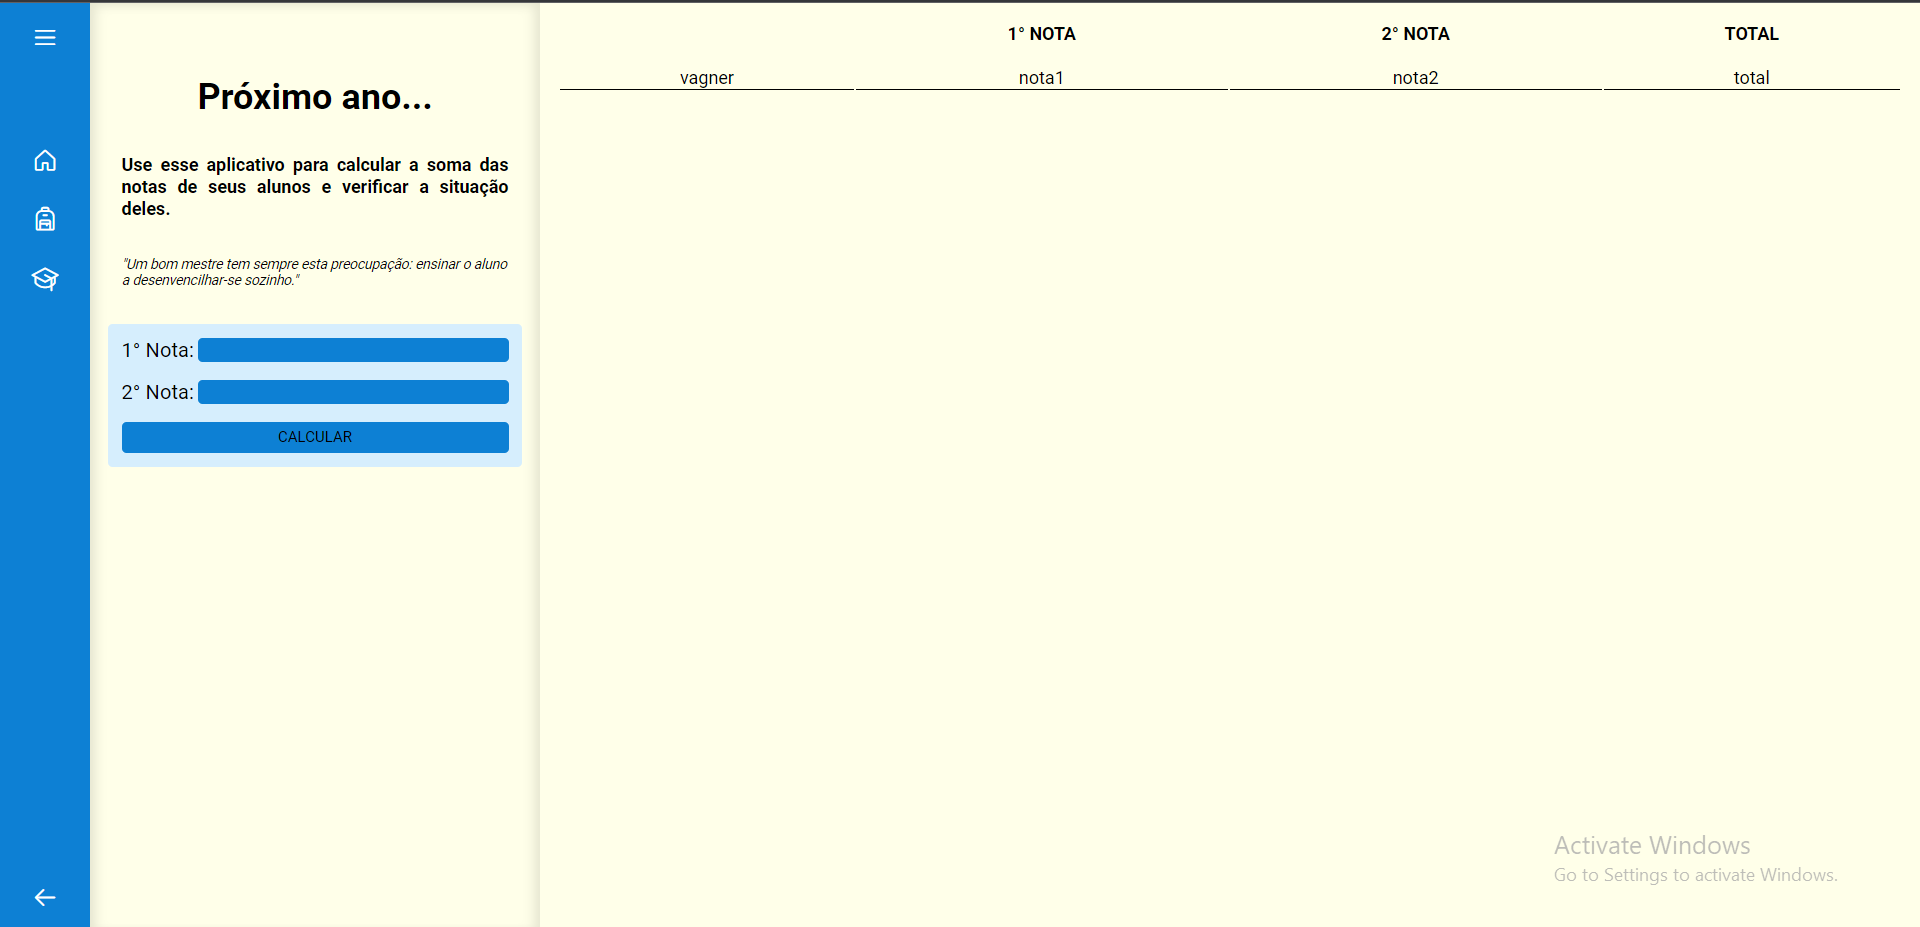
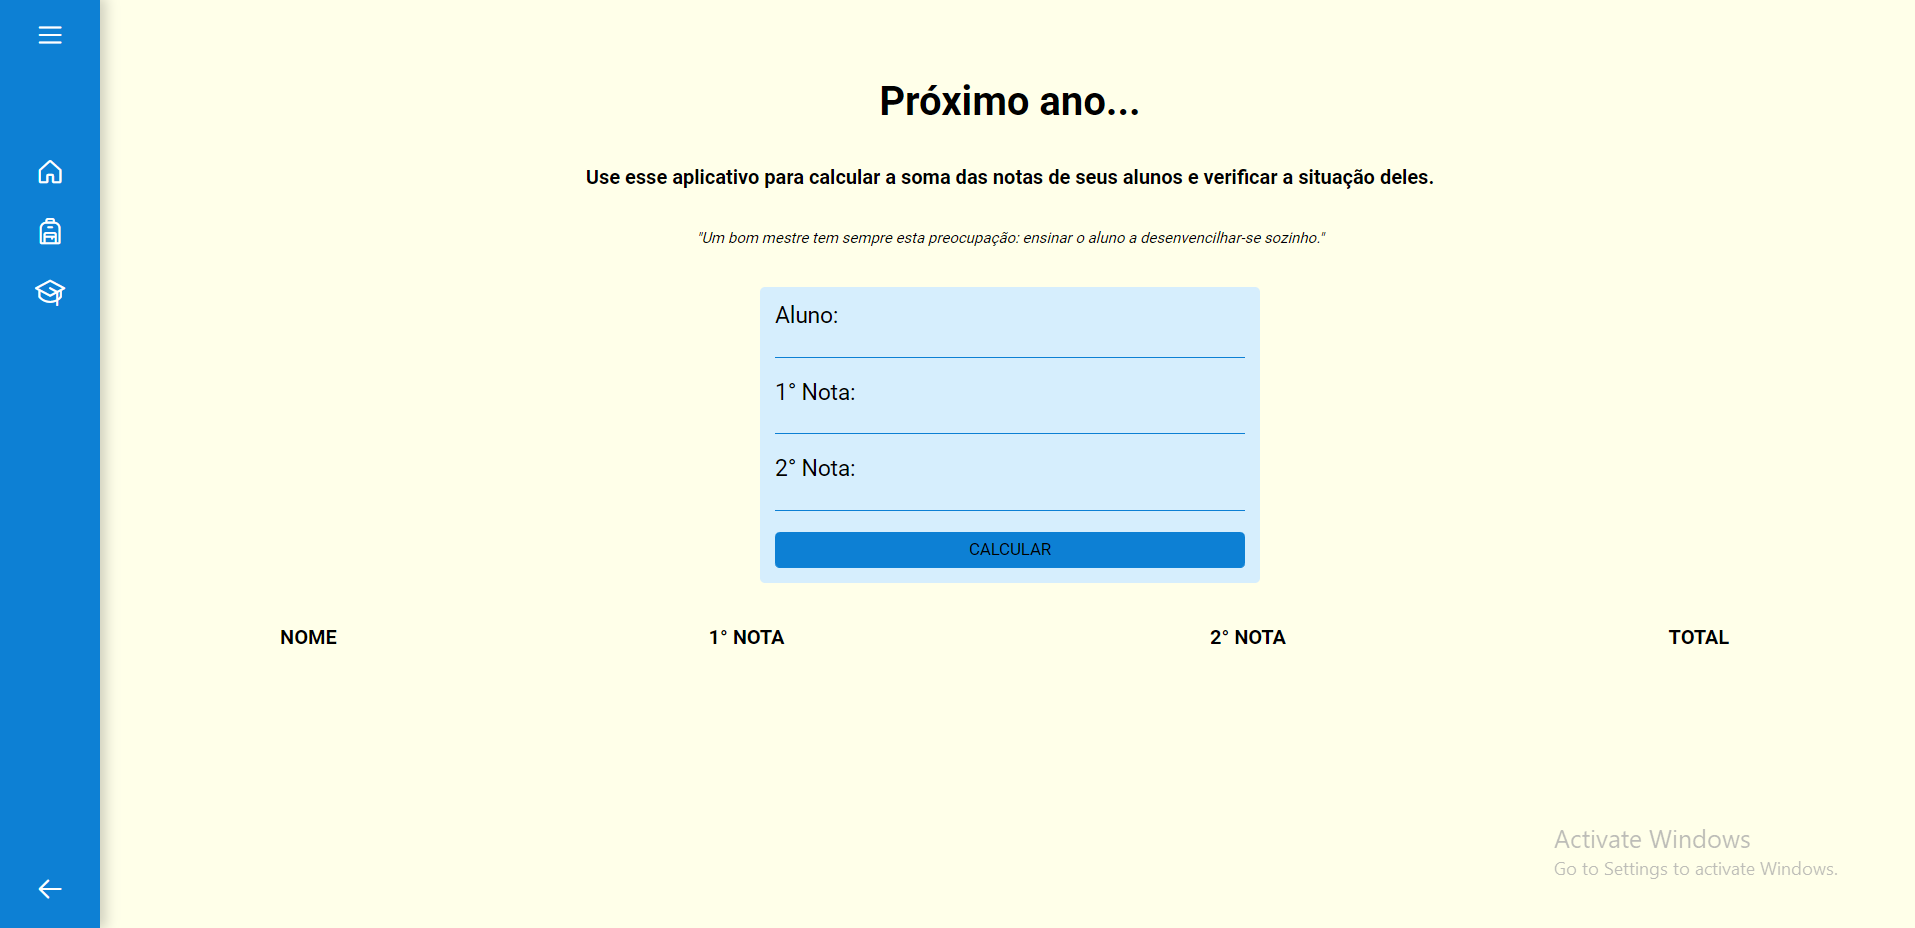
add accumulator at table

diff --git a/style.css b/style.css
@@ -32,9 +32,6 @@ body > div {
 }
 
 body div.open {
-    height: 100%;
-    min-width: 300px;
-    display: grid;
     grid-template-areas: 
     'sidebar main';
     grid-template-columns: 160px 1fr;
@@ -47,11 +44,16 @@ body > div div#sidebar {
     flex-direction: column;
     padding: 0 28px;
     background: var(--bg-sidebar);
+    box-shadow: 5px 0 10px #d1d1bf;
 }
 
 div#sidebar div#header {
     height: 64px;
     display: flex;
+}
+
+div.open div#header {
+    justify-content: center;
 }
 
 div#header button {
@@ -70,12 +72,24 @@ div#sidebar div#pages {
     padding-top: 64px;
 }
 
+div#pages li {
+    margin-bottom: 24px;
+}
+
 div#pages a {
+    display: flex;
+    align-items: center;
+    color: var(--text-color);
     text-decoration: none;
 }
 
-div#pages li {
-    margin-bottom: 24px;
+a p.page-link {
+    margin-left: 24px;
+    display: none;
+}
+
+div.open .page-link {
+    display: initial;
 }
 
 i {
@@ -89,6 +103,10 @@ div#sidebar div#footer {
     align-items: center;
 }
 
+div.open div#footer {
+    justify-content: center;
+}
+
 div#footer button {
     background: transparent;
     outline: none;
@@ -100,32 +118,33 @@ div#footer button {
 body > div div#register {
     grid-area: main;
     display: flex;
+    flex-direction: column;
+    overflow-y: scrollw;
 }
 
-div#register div#form {
-    width: 400px;
+div#register > div {
+    width: 100%;
     display: flex;
     flex-direction: column;
     align-items: center;
     gap: 32px;
     padding: 64px 16px 16px;
-    box-shadow: -5px 0 10px #e6e6d1 inset,
-    5px 0 10px #e6e6d1 inset;
 }
 
-div#form > h4 {
-    margin: 0 12px;
+div#register > div h4 {
+    margin: 0 32px;
     text-align: justify;
 }
 
-div#form > p {
-    margin: 0 12px;
+div#register > div p {
+    margin: 0 32px;
     font-style: italic;
     font-size: 12px;
 }
 
-div#form form {
-    width: 100%;
+div#register > div form {
+    width: 80%;
+    max-width: 400px;
     display: flex;
     flex-direction: column;
     gap: 16px;
@@ -135,22 +154,17 @@ div#form form {
     background: #d6eefd;
 }
 
-div#score1,
-div#score2 {
-    display: flex;
-}
-
 label {
     margin-right: 4px;
 }
 
 input {
-    flex: 1;
-    padding: 0 8px;
-    border-radius: 4px;
+    width: 100%;
+    padding: 6px 8px 0 0;
     border: 0;
     outline: 0;
-    background: var(--bg-sidebar);
+    background: transparent;
+    border-bottom: 1px solid var(--bg-sidebar);
 }
 
 /* para remover a seta no Chrome e Safari*/
@@ -161,7 +175,10 @@ input::-webkit-inner-spin-button {
 }
 
 input[type='submit'] {
+    height: initial;
     padding: 6px 12px;
+    border-radius: 4px;
+    background: var(--bg-sidebar);
 }
 
 div#register div#score-table {
@@ -179,17 +196,59 @@ thead th:first-child {
 }
 
 tbody tr:first-child td {
-    padding-top: 18px;
+    padding-top: 24px;
 }
 
 td {
+    padding-top: 12px;
     border-bottom: 1px solid black;
 }
 
 @media (max-width: 720px) {
-    div#app div#register {
+
+    body > div {
+        grid-template-areas: 
+        'sidebar'
+        'main';
+        grid-template-columns: 1fr;
+        grid-template-rows: 80px 1fr;
+    }
+
+    body div.open {
+        grid-template-areas: 
+        'sidebar'
+        'main';
+        grid-template-columns: 1fr;
+        grid-template-rows: 80px 1fr;
+    }
+
+    body > div div#sidebar {
+        flex-direction: row;
+        align-items: center;
+        justify-content: center;
+        padding: 0 16px;
+    }
+    
+    div#sidebar div#pages {
+        padding-top: 0px;
+        flex: 0;
+    }
+
+    div#pages ul {
         display: flex;
-        flex-direction: column;
+    }
+
+    div#pages li {
+        margin: 0 12px;
+    }
+
+    div#header button,
+    div#footer i {
+        display: none;
+    }
+
+    div#register > div {
+        box-shadow: 5px 0 10px red inset,
     }
 
     div#register div#form {

diff --git a/index.html b/index.html
@@ -11,39 +11,42 @@
   </head>
 
   <body>
-    <div class=""> 
+    <div class="">
       <div id="sidebar">
         <div id="header">
           <button id="btn-sidebar">
             <i class="ph ph-list"></i>
           </button>
         </div>
-
         <div id="pages">
           <ul class="list-pages">
             <li>
-              <a href="/"><i class="ph ph-house"></i></a>
+              <a href="/">
+                <i class="ph ph-house"></i>
+                <p class="page-link">HOME</p>
+              </a>
             </li>
             <li>
-              <a href="/"><i class="ph ph-backpack"></i></a>
+              <a href="/">
+                <i class="ph ph-backpack"></i>
+                <p class="page-link">TURMA</p>
+              </a>
             </li>
             <li>
-              <a href="/"><i class="ph ph-graduation-cap"></i></a>
+              <a href="/">
+                <i class="ph ph-graduation-cap"></i>
+                <p class="page-link">PROF°</p>
+              </a>
             </li>
           </ul>
         </div>
-
         <div id="footer">
-          <button>
-            <i class="ph ph-arrow-left"></i>
-          </button>
+          <i class="ph ph-arrow-left"></i>
         </div>
       </div>
-
       <div id="register">
-        <div id="form">
+        <div>
           <h1>Próximo ano...</h1>
-
           <h4>
             Use esse aplicativo para calcular a soma das notas de seus alunos e
             verificar a situação deles.
@@ -52,9 +55,12 @@
             &quot;Um bom mestre tem sempre esta preocupação: ensinar o aluno a
             desenvencilhar-se sozinho.&quot;
           </p>
-
           <form>
-            <div id="score1">
+            <div>
+              <label for="inName">Aluno: </label>
+              <input type="text" id="inName" required />
+            </div>
+            <div>
               <label for="inScore1">1° Nota:</label>
               <input
                 type="number"
@@ -65,8 +71,7 @@
                 required
               />
             </div>
-
-            <div id="score2">
+            <div>
               <label for="inScore2">2° Nota:</label>
               <input
                 type="number"
@@ -77,30 +82,20 @@
                 required
               />
             </div>
-
             <input type="submit" value="CALCULAR" />
           </form>
         </div>
-
         <div id="score-table">
           <table>
             <thead>
               <tr>
-                <th>&emsp;</th>
+                <th>NOME</th>
                 <th>1° NOTA</th>
                 <th>2° NOTA</th>
                 <th>TOTAL</th>
               </tr>
             </thead>
-
-            <tbody>
-              <tr>
-                <td>vagner</td>
-                <td>nota1</td>
-                <td>nota2</td>
-                <td>total</td>
-              </tr>
-            </tbody>
+            <tbody id="student"></tbody>
           </table>
         </div>
       </div>

diff --git a/script.js b/script.js
@@ -1,6 +1,37 @@
-const btnToggle = document.getElementById('btn-sidebar')
+const btnToggle = document.getElementById("btn-sidebar");
+// open sidebar
+btnToggle.addEventListener("click", () => {
+  const app = document.querySelector("body > div");
+  app.classList.toggle("open");
+});
 
-btnToggle.addEventListener('click', () => {
-    const app = document.querySelector('body > div')
-    app.classList.toggle('open')
-})
+const frm = document.querySelector("form");
+const studentTable = document.querySelector("#student");
+
+const students = [];
+frm.addEventListener("submit", (e) => {
+  e.preventDefault();
+  const name = frm.inName.value;
+  const score1 = Number(frm.inScore1.value);
+  const score2 = Number(frm.inScore2.value);
+  const total = (score1 + score2) / 2;
+
+  students.push({ name, score1, score2, total });
+  let list = "";
+  for (let i = 0; i < students.length; i++) {
+    list += `
+    <tr>
+        <td class='student-name'>${students[i].name}</td>            
+        <td class='student-score1'>${students[i].score1}</td>
+        <td class='student-score2'>${students[i].score2}</td>
+        <td class='student-total'>${students[i].total}</td>
+    </tr>`;
+  }
+
+  studentTable.innerHTML = list;
+
+  frm.inName.value = "";
+  frm.inName.focus();
+  frm.inScore1.value = "";
+  frm.inScore2.value = "";
+});
